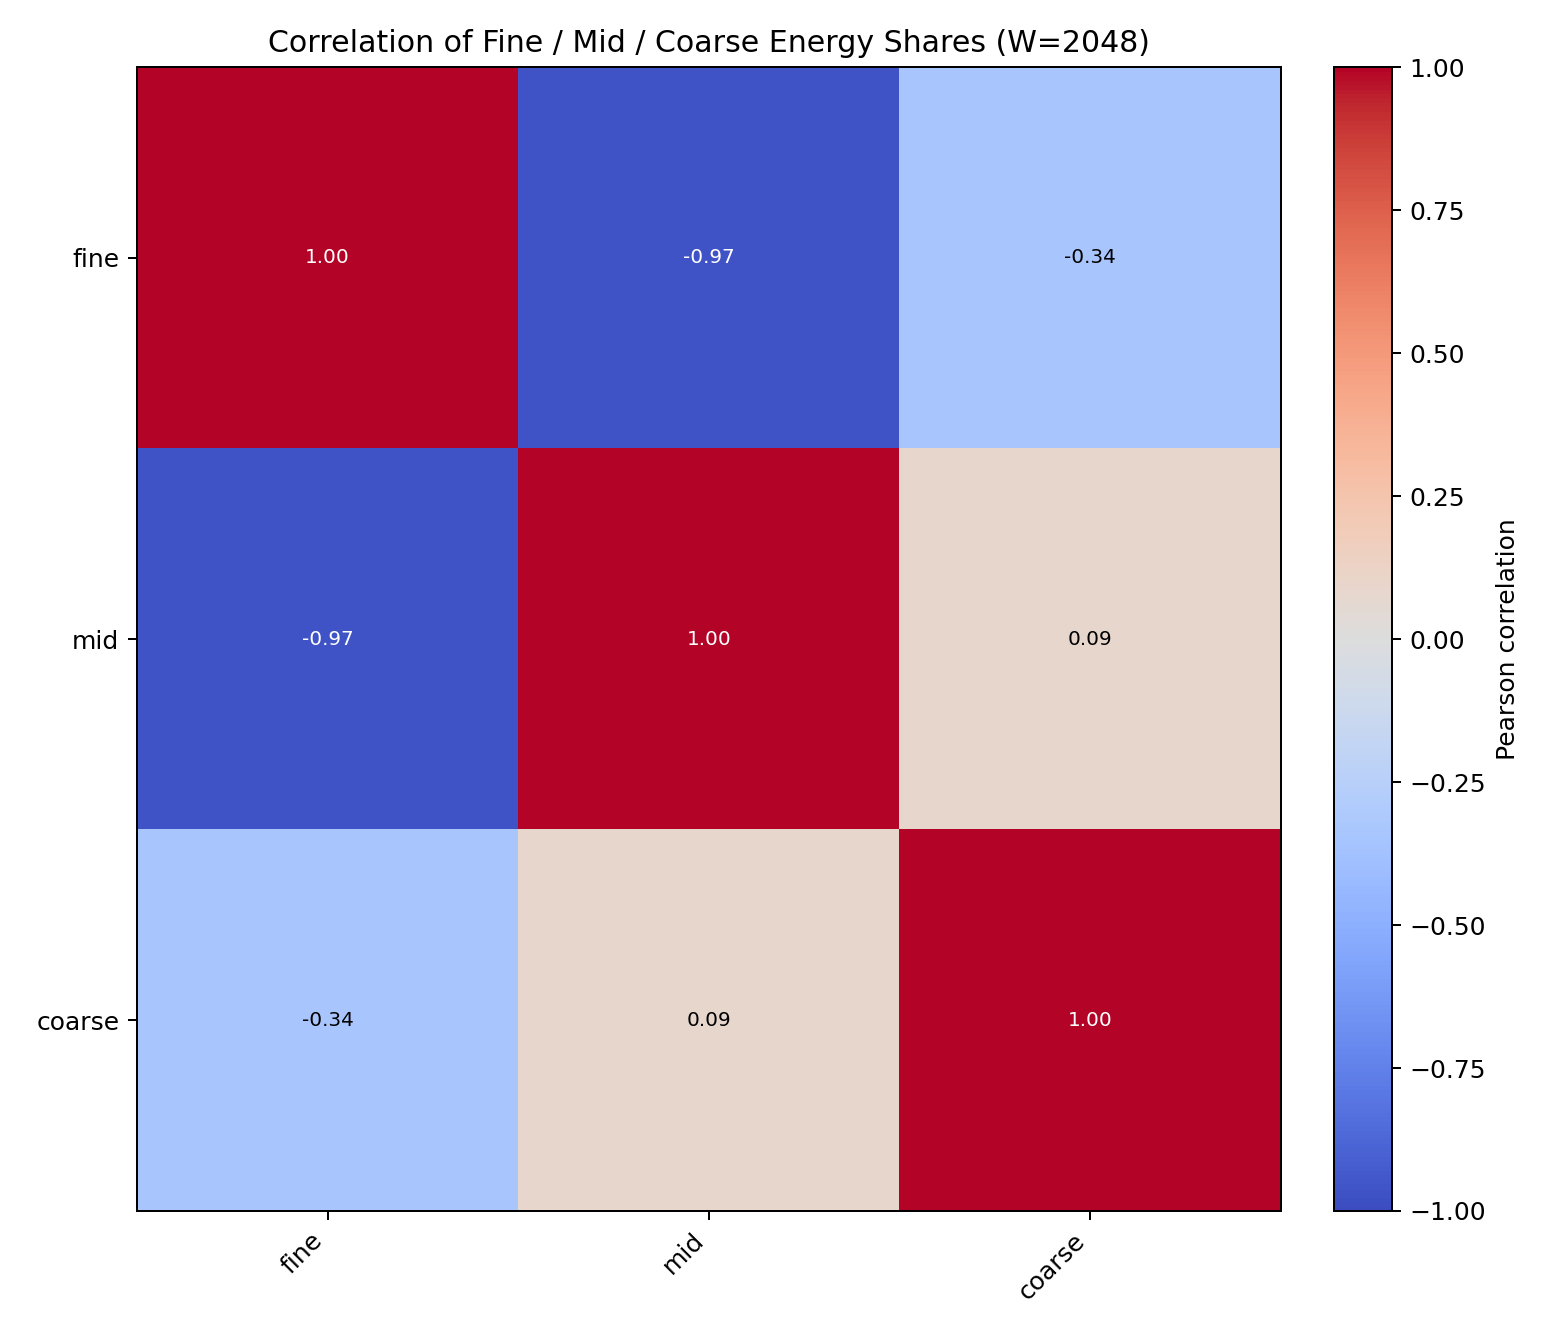
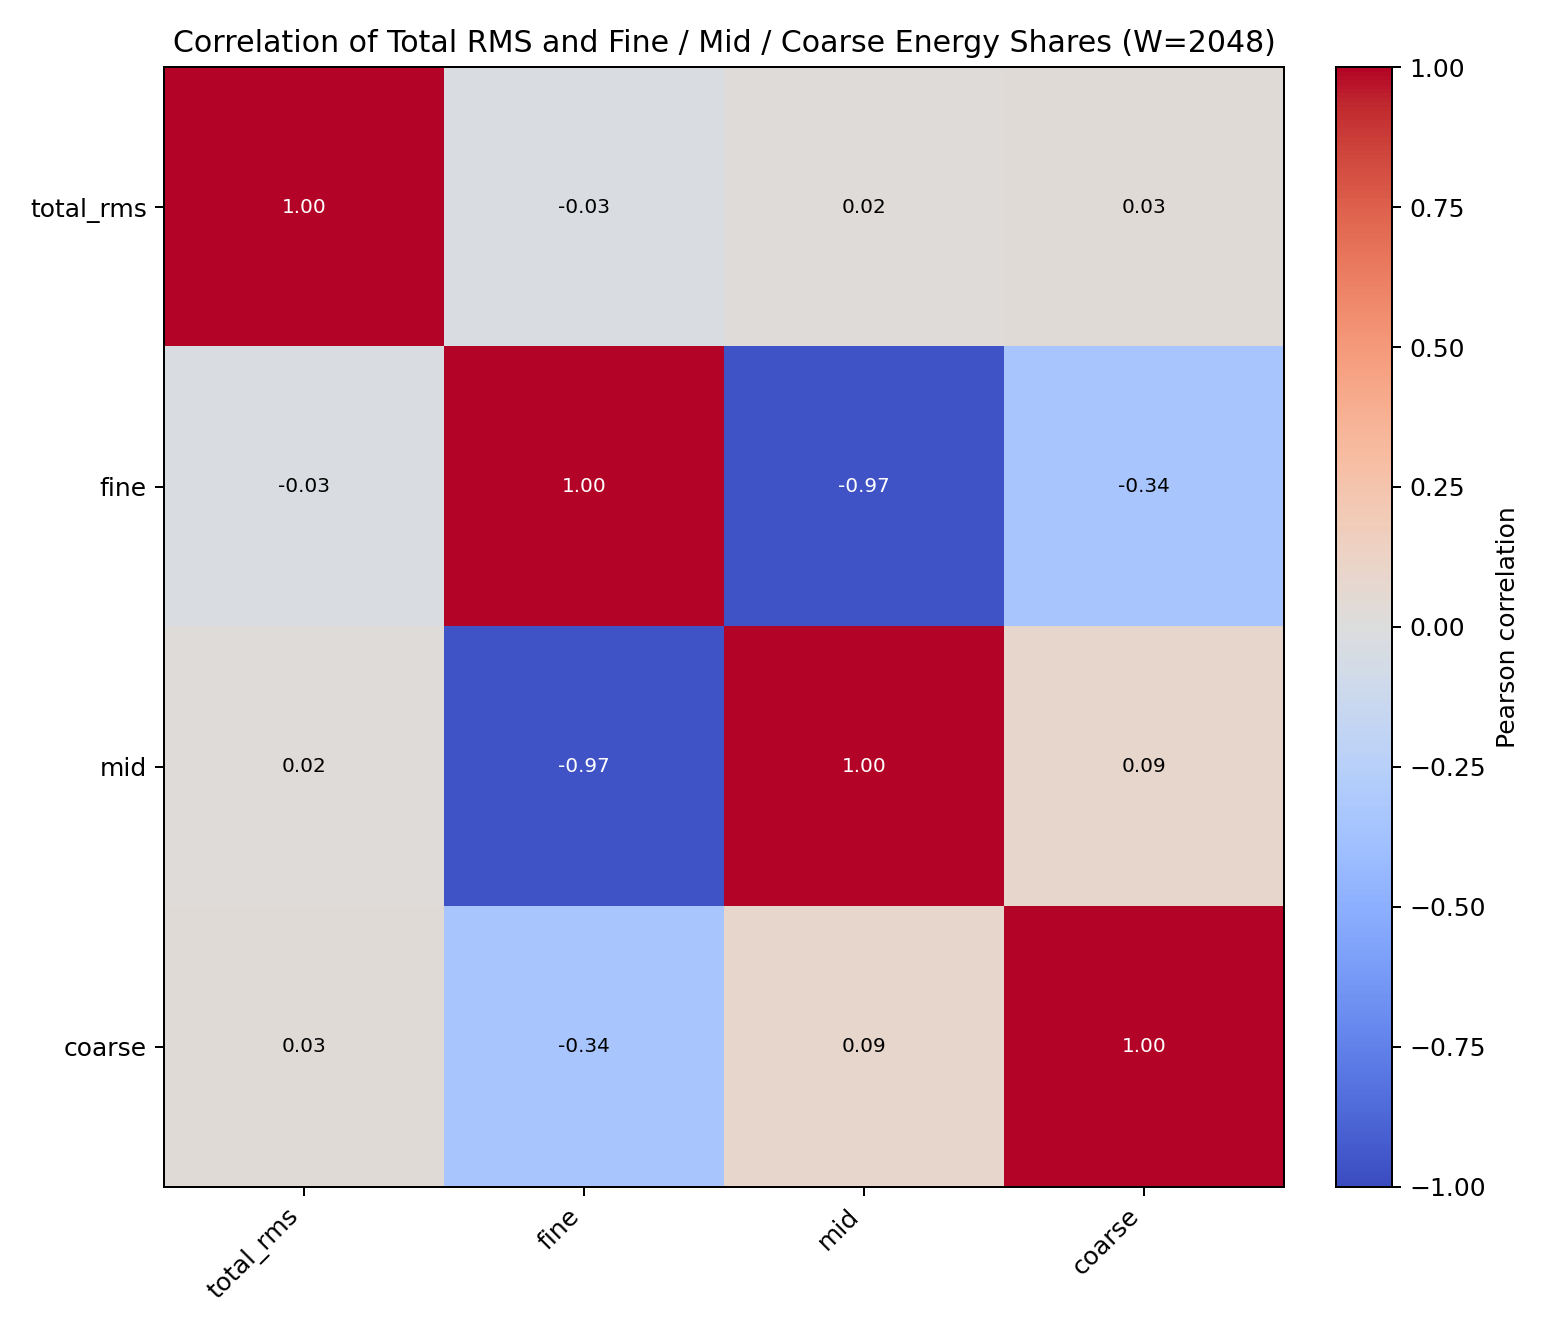
Added total vol correlation to energy shares

diff --git a/src/multi_scale_volatility/plotting/rolling.py b/src/multi_scale_volatility/plotting/rolling.py
@@ -231,6 +231,7 @@ def create_rolling_plots(paths: RollingPlotPaths | None = None) -> list[Path]:
         )
         outputs.append(
             plot_scale_group_share_correlation(
+                summary,
                 groups,
                 energy_share_dir / f"fine_mid_coarse_share_correlation_{window_length}.png",
                 window_length=window_length,
@@ -608,27 +609,37 @@ def plot_scale_group_shares(
 
 
 def plot_scale_group_share_correlation(
+    summary: pd.DataFrame,
     groups: pd.DataFrame,
     output_path: Path,
     window_length: int,
 ) -> Path:
-    group_order = ["fine", "mid", "coarse"]
+    variable_order = ["total_rms", "fine", "mid", "coarse"]
     rows = groups[groups["window_length"] == window_length].copy()
-    wide = (
+    group_wide = (
         rows.pivot(
             index="window_id",
             columns="scale_group",
             values="group_detail_energy_share",
         )
-        .reindex(columns=group_order)
+        .reindex(columns=["fine", "mid", "coarse"])
         .sort_index()
     )
-    correlation = wide.corr().reindex(index=group_order, columns=group_order)
+    total_rms = (
+        summary[summary["window_length"] == window_length]
+        .set_index("window_id")["original_rms_volatility"]
+        .rename("total_rms")
+    )
+    wide = group_wide.join(total_rms, how="inner").reindex(columns=variable_order)
+    correlation = wide.corr().reindex(index=variable_order, columns=variable_order)
     return plot_correlation_matrix(
         correlation,
         output_path,
-        labels=group_order,
-        title=f"Correlation of Fine / Mid / Coarse Energy Shares (W={window_length})",
+        labels=variable_order,
+        title=(
+            "Correlation of Total RMS and Fine / Mid / Coarse Energy Shares "
+            f"(W={window_length})"
+        ),
     )
 
 
